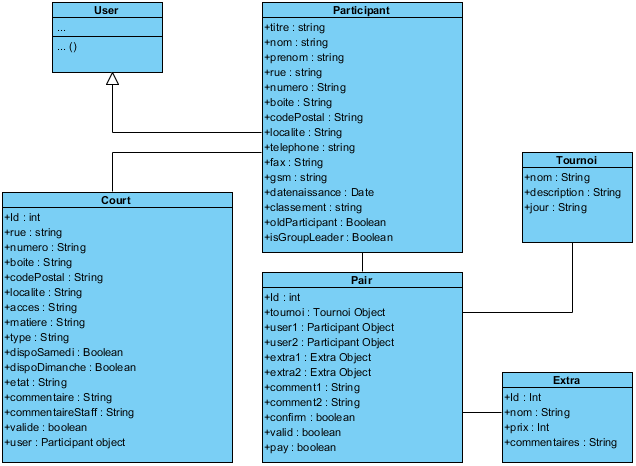
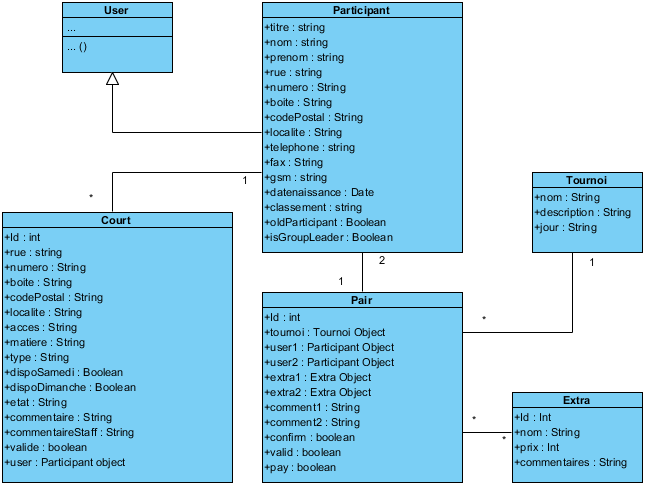
Corrections

Changed region(s): [[0.0, 0.0, 1.0, 1.0], [0.0597, 0.0, 0.2689, 0.2704], [0.0, 0.9914, 0.3585, 1.0]]

diff --git a/LaTeX/report3/teamwork.tex b/LaTeX/report3/teamwork.tex
@@ -1,7 +1,5 @@
 \section{Teamwork}
 
-\todo[inline]{Chacun doit décrire ce qu'il a fait pour cette itération}
-
 For this iteration, we will describe how we obtained this result thanks to
 each member's work. \newline
 
@@ -19,4 +17,4 @@ participants (owners and players). \newline
 Zacharie, Benjamin, Romain and Alexandre worked on the group management,
 the tournament management and the leader choice. Alexandre mainly worked on the logic of the groups creation, while Zacharie, Benjamin, and Romain worked on Django integration, layout formatting, and code debugging. \newline
 
-Finally Cyril worked on setting up the various mails sending functions needed to share information with the various players. 
+Finally Cyril worked on setting up the various mails sending functions needed to share information with the various player and updating the class diagram.

diff --git a/LaTeX/report3/classdiagram.tex b/LaTeX/report3/classdiagram.tex
@@ -3,6 +3,8 @@
 In this section, you will find the class diagram of our current implementation. As you can see 
 our current implementation has grown a lot during this sprint, thanks to the addition of various classes. \newline
 
+The participant class had some attribute added and was linked to the new court and pair class so we could which court and pair belongs to who. The pair class was then linked to the new class extra which now allow us to calculate the total price of the inscription. A tournoi class has been added to link the pair creation to a tournoi in particular. \newline
+
 Of course, since this diagram is bound to change, we will update it in the following reports.
 
 \begin{figure}[!ht]
